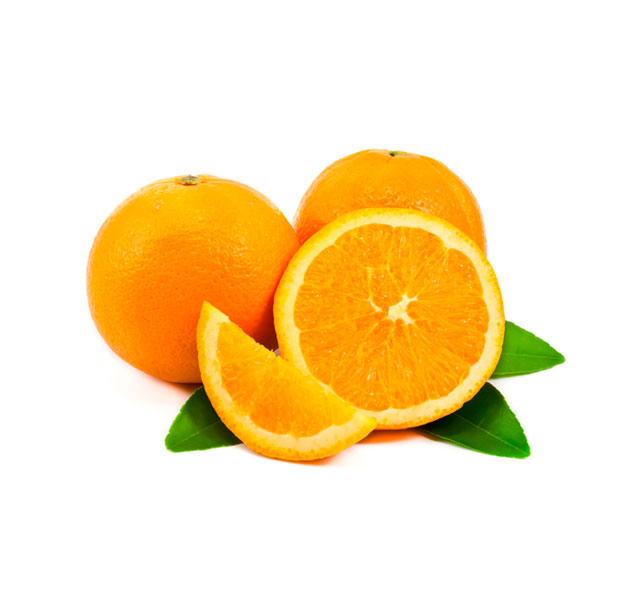
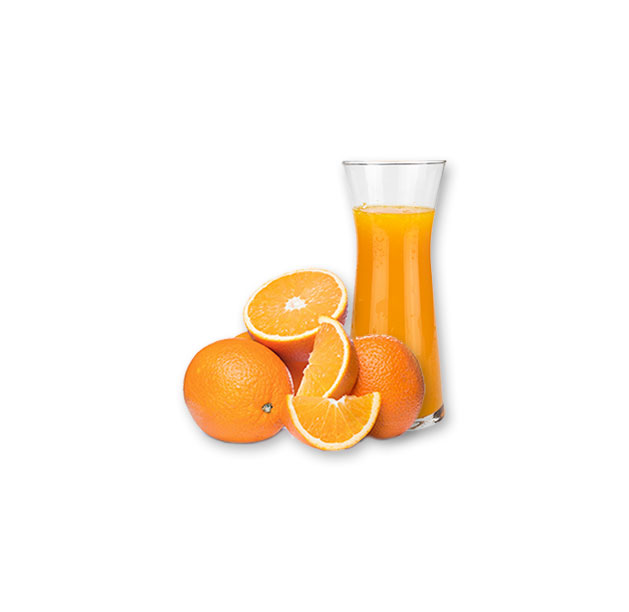
Denser mobile grid (3-col ~12 items) + better laranja photo + high-contrast cart
- Mobile products now a 3-column compact grid (~12+ visible per screen) so
  customers don't have to scroll far / get fed up searching
- Laranja now uses a proper frutalverca orange photo (was own foto_7_1)
- Floating cart restyled to high contrast: cherry red + white border/count

Changed region(s): [[0.1208, 0.2173, 0.9062, 0.7761]]

diff --git a/css/estilos.css b/css/estilos.css
@@ -258,20 +258,21 @@
 
     /* ══ FLOATING CART (pops top-right when items added) ══ */
     .float-cart {
-      position:fixed; top:76px; right:14px; z-index:1150;
-      display:flex; align-items:center; gap:8px; padding:11px 16px; border:none; cursor:pointer;
-      background:var(--peach); color:#fff; border-radius:var(--r-full); box-shadow:var(--sh-lg);
-      font-family:'Poppins',sans-serif; font-weight:700; font-size:0.92rem;
+      position:fixed; top:74px; right:12px; z-index:1150;
+      display:flex; align-items:center; gap:9px; padding:12px 18px; border:2px solid #fff; cursor:pointer;
+      background:var(--cherry); color:#fff; border-radius:var(--r-full);
+      box-shadow:0 8px 26px rgba(196,30,58,0.45), 0 2px 8px rgba(0,0,0,0.25);
+      font-family:'Poppins',sans-serif; font-weight:800; font-size:0.98rem; letter-spacing:0.3px;
       opacity:0; transform:translateY(-14px) scale(0.9); pointer-events:none;
-      transition:opacity 0.25s ease, transform 0.25s ease, background 0.2s;
+      transition:opacity 0.25s ease, transform 0.25s ease, filter 0.2s;
     }
     .float-cart.visible { opacity:1; transform:translateY(0) scale(1); pointer-events:auto; }
-    .float-cart:hover { background:var(--peach-lt); }
-    .float-cart .fc-icon { font-size:1.15rem; line-height:1; }
+    .float-cart:hover { filter:brightness(1.08); }
+    .float-cart .fc-icon { font-size:1.25rem; line-height:1; }
     .float-cart .fc-count {
-      background:#fff; color:var(--peach); border-radius:var(--r-full);
-      min-width:23px; height:23px; padding:0 6px; display:inline-flex; align-items:center; justify-content:center;
-      font-size:0.82rem; font-weight:800;
+      background:#fff; color:var(--cherry); border-radius:var(--r-full);
+      min-width:24px; height:24px; padding:0 6px; display:inline-flex; align-items:center; justify-content:center;
+      font-size:0.85rem; font-weight:800;
     }
     .float-cart.pop { animation:fc-pop 0.42s ease; }
     @keyframes fc-pop { 0%{transform:scale(1)} 40%{transform:scale(1.18)} 100%{transform:scale(1)} }
@@ -726,8 +727,19 @@
     }
     @media (max-width:480px) {
       .contact-grid { grid-template-columns:1fr; }
-      .products-grid { grid-template-columns:repeat(2,1fr); gap:14px; }
-      .photo-wrap { height:158px; }
+      /* dense 3-column product grid so ~12+ fit per screen */
+      .products-grid { grid-template-columns:repeat(3,1fr); gap:7px; }
+      .product-card { border-radius:var(--r-md); }
+      .photo-wrap { height:74px; }
+      .card-body { padding:6px 6px 7px; }
+      .product-name { font-size:0.66rem; line-height:1.12; margin-bottom:1px; }
+      .product-peso { font-size:0.56rem; margin-bottom:0; }
+      .product-origem { display:none; }
+      .product-fresh { display:none; }
+      .product-price { font-size:0.74rem; margin-bottom:4px; }
+      .add-btn { padding:5px 2px; font-size:0.62rem; }
+      .product-badge { font-size:0.5rem; padding:2px 5px; }
+      .cat-tab { font-size:0.82rem; padding:9px 12px; }
       .sc { width:240px; height:320px; }
       .social-link { transform:translateX(calc(100% - 46px)); }
       .social-wa   { transform:translateX(0); }

diff --git a/js/dados.js b/js/dados.js
@@ -16,7 +16,7 @@
 
   const FOTOS = {
     bananas:      "fotos/foto_8_1.jpeg",
-    laranjas:     "fotos/foto_7_1.jpeg",
+    laranjas:     "fotos/laranjas.jpeg",
     morangos:     "fotos/foto_10_1.jpeg",
     melancia:     "fotos/foto_3_1.jpeg",
     melancia_redonda: "fotos/melancia_redonda.jpeg",